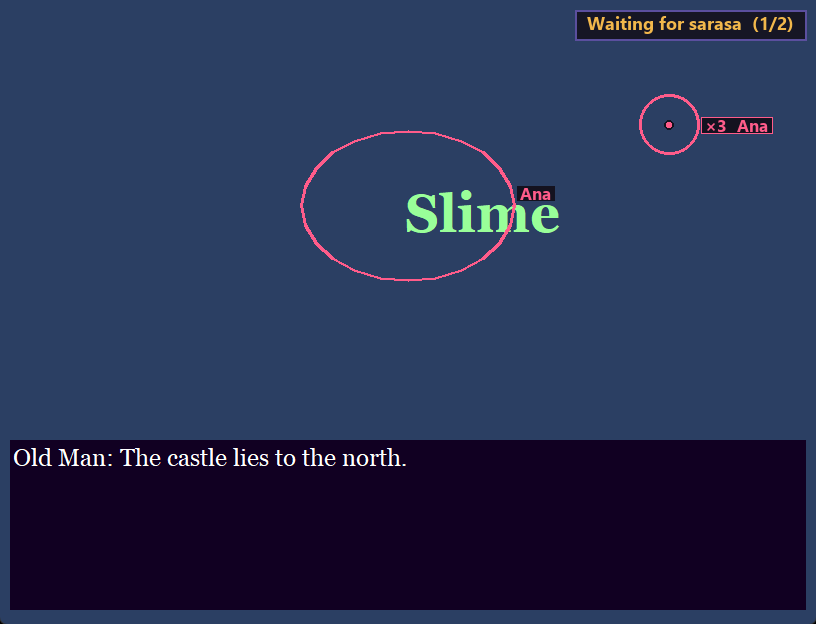
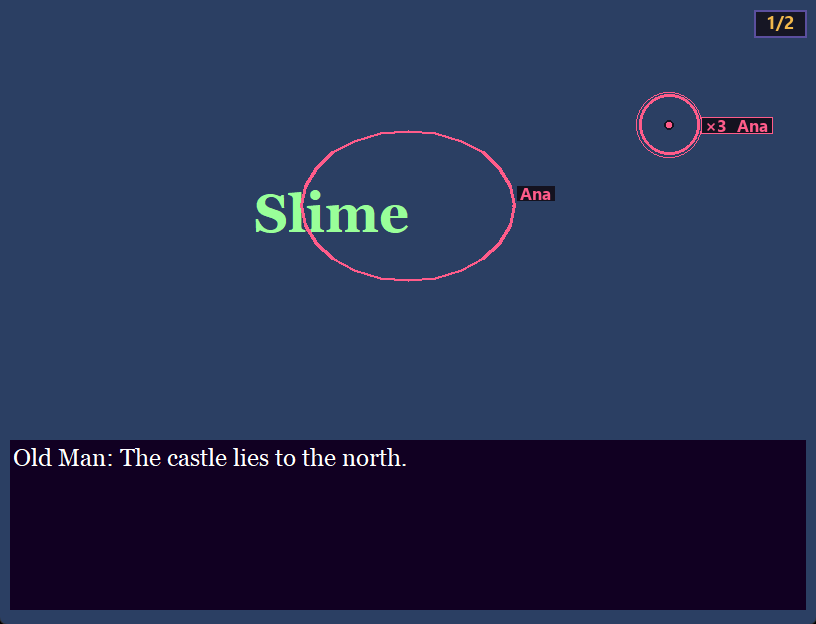
RPGMT 1.0.7: discreet read badge, play-together wording
- The host's status bubble is now a small count badge (0/1, then a green
  checkmark 1/1); shorter Paused/Resumed notes.
- Reworded the app, exe description, README and docs around playing RPG
  Maker games together; reading is one feature among watch/ping/draw/chat.
- README screenshots retaken.

Changed region(s): [[0.3064, 0.3045, 0.7047, 0.3958], [0.7047, 0.0, 0.9804, 0.0913]]

diff --git a/rpgmt/web/index.html b/rpgmt/web/index.html
@@ -534,7 +534,7 @@ function openChat() {
   $("chatInput").focus();
 }
 
-// --- reading -----------------------------------------------------------------
+// --- marking lines as read + member list -------------------------------------------
 function render() {
   const msg = state.message;
   applyChatVisibility();

diff --git a/rpgmt/overlay.py b/rpgmt/overlay.py
@@ -1,4 +1,5 @@
-"""Click-through windows drawn on top of the game: the status bubble and viewers' pings.
+"""Click-through windows drawn on top of the game: the read-count badge, friends' pings,
+drawings and chat.
 
 They're separate always-on-top windows (works for every engine without touching
 the game), so they show up when the host shares their screen on Discord. They
@@ -360,9 +361,9 @@ class Overlay:
         self.win.attributes("-topmost", True)
         self.win.attributes("-transparentcolor", KEY)
         self.win.configure(bg=KEY)
-        self.box = tk.Frame(self.win, bg="#14121f", highlightthickness=2, highlightbackground="#5b4f9e")
+        self.box = tk.Frame(self.win, bg="#14121f", highlightthickness=1, highlightbackground="#3b3363")
         self.box.pack()
-        self.label = tk.Label(self.box, bg="#14121f", fg=WAIT_COLOR, padx=12, pady=6)
+        self.label = tk.Label(self.box, bg="#14121f", fg=WAIT_COLOR, padx=7, pady=1)
         self.label.pack()
         self._styled = False
         self._font_px = None
@@ -399,9 +400,8 @@ class Overlay:
                 return None
         done = sum(p["read"] for p in players)
         if s.get("advancing") or done == len(players):
-            return "✓ Everyone read", DONE_COLOR
-        waiting = [p["name"] for p in players if not p["read"]]
-        return f"Waiting for {', '.join(waiting)}  ({done}/{len(players)})", WAIT_COLOR
+            return f"✓ {done}/{len(players)}", DONE_COLOR
+        return f"{done}/{len(players)}", WAIT_COLOR  # small on purpose: the host just needs the count
 
     def _tick(self):
         try:
@@ -421,7 +421,7 @@ class Overlay:
             self._hide()
             return
         l, t, r, b = rect
-        font_px = max(12, min(22, (b - t) // 34))
+        font_px = max(10, min(15, (b - t) // 48))
         if font_px != self._font_px:
             self._font_px = font_px
             self.label.configure(font=("Segoe UI", -font_px, "bold"))

diff --git a/rpgmt/app.py b/rpgmt/app.py
@@ -162,7 +162,7 @@ class App:
         ttk.Checkbutton(opts, text="Hold the game until everyone has read", variable=self.blocking_var,
                         command=self._apply_blocking).grid(row=2, column=0, columnspan=2, sticky="w")
 
-        # --- now reading ----------------------------------------------------
+        # --- now: current line, who's in, detection ---------------------------
         card, now = theme.card(right, "Now")
         card.grid(row=0, column=0, sticky="ew", pady=(0, 12))
         now.columnconfigure(0, weight=1)
@@ -485,11 +485,11 @@ class App:
         self.detector.paused = not self.detector.paused
         if self.detector.paused:
             self.gate.engaged = False
-            self.overlay.flash("\u23f8 Paused  (F8 to resume)", theme.MUTED)
+            self.overlay.flash("\u23f8 Paused", theme.MUTED)
         else:
             self.overlay.flash("\u25b6 Resumed", theme.OK)
         self.pause_btn.configure(text="Resume (F8)" if self.detector.paused else "Pause (F8)")
-        self.log("Paused - no reading status, game input is normal" if self.detector.paused else "Resumed")
+        self.log("Paused - lines aren't tracked, game input is normal" if self.detector.paused else "Resumed")
 
     def _apply_clean(self):
         if self.detector:

diff --git a/rpgmt/launcher.py b/rpgmt/launcher.py
@@ -35,12 +35,12 @@ class Launcher:
         frm = ttk.Frame(root, padding=24)
         frm.pack(fill="both", expand=True)
         ttk.Label(frm, text="RPGMT", style="Title.TLabel").pack(anchor="w")
-        ttk.Label(frm, text=f"Read RPG Maker games together  ·  v{__version__}", style="Sub.TLabel").pack(anchor="w", pady=(0, 16))
+        ttk.Label(frm, text=f"Play RPG Maker games together  ·  v{__version__}", style="Sub.TLabel").pack(anchor="w", pady=(0, 16))
 
         host = ttk.Frame(frm, style="Card.TFrame", padding=16)
         host.pack(fill="x", pady=(0, 12))
         ttk.Label(host, text="Host a game", style="Card.TLabel").pack(anchor="w")
-        ttk.Label(host, text="You play; friends watch your game live and press Read.",
+        ttk.Label(host, text="You play; friends watch live with sound, ping, draw and chat.",
                   style="Hint.TLabel").pack(anchor="w", pady=(2, 10))
         ttk.Button(host, text="Host", style="Big.TButton", command=self.host).pack(fill="x")
 

diff --git a/build_exe.py b/build_exe.py
@@ -34,7 +34,7 @@ VERSION_FILE.write_text(f"""VSVersionInfo(
   kids=[
     StringFileInfo([StringTable('040904B0', [
       StringStruct('ProductName', 'RPGMT'),
-      StringStruct('FileDescription', 'RPGMT - Reading lobby for RPG Maker games'),
+      StringStruct('FileDescription', 'RPGMT - Play RPG Maker games together'),
       StringStruct('FileVersion', '{VERSION}'),
       StringStruct('ProductVersion', '{VERSION}'),
       StringStruct('OriginalFilename', 'RPGMT.exe'),

diff --git a/rpgmt/gate.py b/rpgmt/gate.py
@@ -1,4 +1,5 @@
-"""Holds back the host's "advance text" input while the lobby is still reading.
+""""Hold the game until everyone has read" mode: holds back the host's "advance text"
+input while friends are still on the current line.
 
 Works for every RPG Maker version because it acts at the OS input level: while
 engaged, confirm/cancel keys and mouse clicks aimed at the game are swallowed.

diff --git a/rpgmt/viewer.py b/rpgmt/viewer.py
@@ -1,4 +1,4 @@
-"""The window friends watch in: the host's live game with sound, Read button, pings."""
+"""The window friends watch in: the host's live game with sound, chat, pings and drawing."""
 import os
 import urllib.error
 import urllib.parse

diff --git a/rpgmt/__init__.py b/rpgmt/__init__.py
@@ -1,3 +1,3 @@
-"""RPGMT: reading lobby for RPG Maker games."""
+"""RPGMT: play RPG Maker games together (watch live, ping, draw, chat, read along)."""
 
-__version__ = "1.0.6"
+__version__ = "1.0.7"

diff --git a/README.md b/README.md
@@ -5,8 +5,8 @@
 <h1 align="center">RPGMT</h1>
 
 <p align="center">
-  <b>Read RPG Maker games together.</b><br>
-  One person plays; friends watch live with sound, mark each line as read, ping, draw and chat.
+  <b>Play RPG Maker games together.</b><br>
+  One person plays; friends watch live with sound, ping, draw and chat, and follow the story line by line.
 </p>
 
 <p align="center">
@@ -23,15 +23,15 @@
 ## What it does
 
 - **Watch together:** friends see the host's game live, with **only the game's sound**: no Discord voices, no music player.
-- **Read together:** friends press **Space / Z** when they've read a line. The host sees who's still reading ("Waiting for Ana (1/2)" → "✓ Everyone read"), and can optionally **hold the game until everyone has read**.
-- **Point things out:** **click** to ping a spot on the host's screen, **drag** to draw on it. Everyone sees it.
+- **React on the screen:** **click** to ping a spot on the host's game, **drag** to draw on it. Everyone sees it.
 - **Chat** that floats over the game and fades away when nobody's talking.
+- **Nobody gets left behind:** friends press **Space / Z** when they've read a line, and a small badge on the host's screen shows how many have (`1/2` → `✓ 2/2`). The host can even **hold the game until everyone has read**.
 - **Any RPG Maker game:** 2000, 2003, XP, VX, VX Ace, MV, MZ. Nothing is installed into the game: RPGMT reads the dialogue from the screen with Windows' built-in text recognition.
 - **No server needed:** play over Hamachi, Radmin VPN, ZeroTier, Tailscale or your home network, or share a free Cloudflare link.
 
 <p align="center">
   <img src="docs/host.png" width="49%" alt="The host window: game, connection and options on the left; current line, players and chat on the right">
-  <img src="docs/host_screen.png" width="49%" alt="The host's game with the reading status, a friend's ping and drawing on top">
+  <img src="docs/host_screen.png" width="49%" alt="The host's game with the read-count badge, a friend's ping and drawing on top">
 </p>
 
 ## Download
@@ -52,7 +52,7 @@ Grab **`RPGMT-x.y.z.zip`** from the [latest release](https://github.com/xmelqui/
 
 The first time, **Windows Firewall** asks whether RPGMT may use the network. Allow it, and tick *Public* too if you use Hamachi or Radmin, or friends can't connect.
 
-**Options:** let friends ping and draw · show the reading status over your game · enable chat · show chat over your game · hold the game until everyone has read (your confirm keys wait until everyone pressed Read, then RPGMT presses Enter for you).
+**Options:** let friends ping and draw · show the read-count badge over your game · enable chat · show chat over your game · hold the game until everyone has read (your confirm keys wait until everyone pressed Read, then RPGMT presses Enter for you).
 
 ## Joining
 
